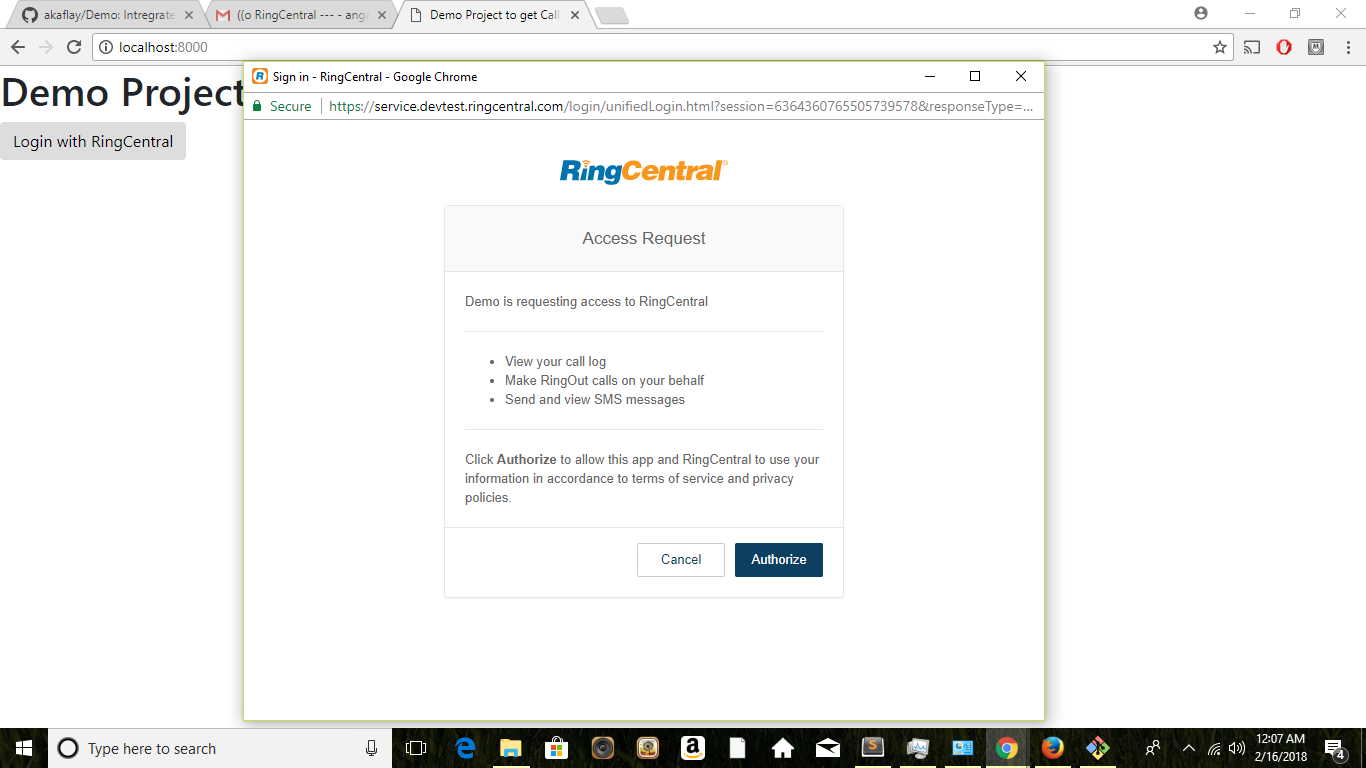
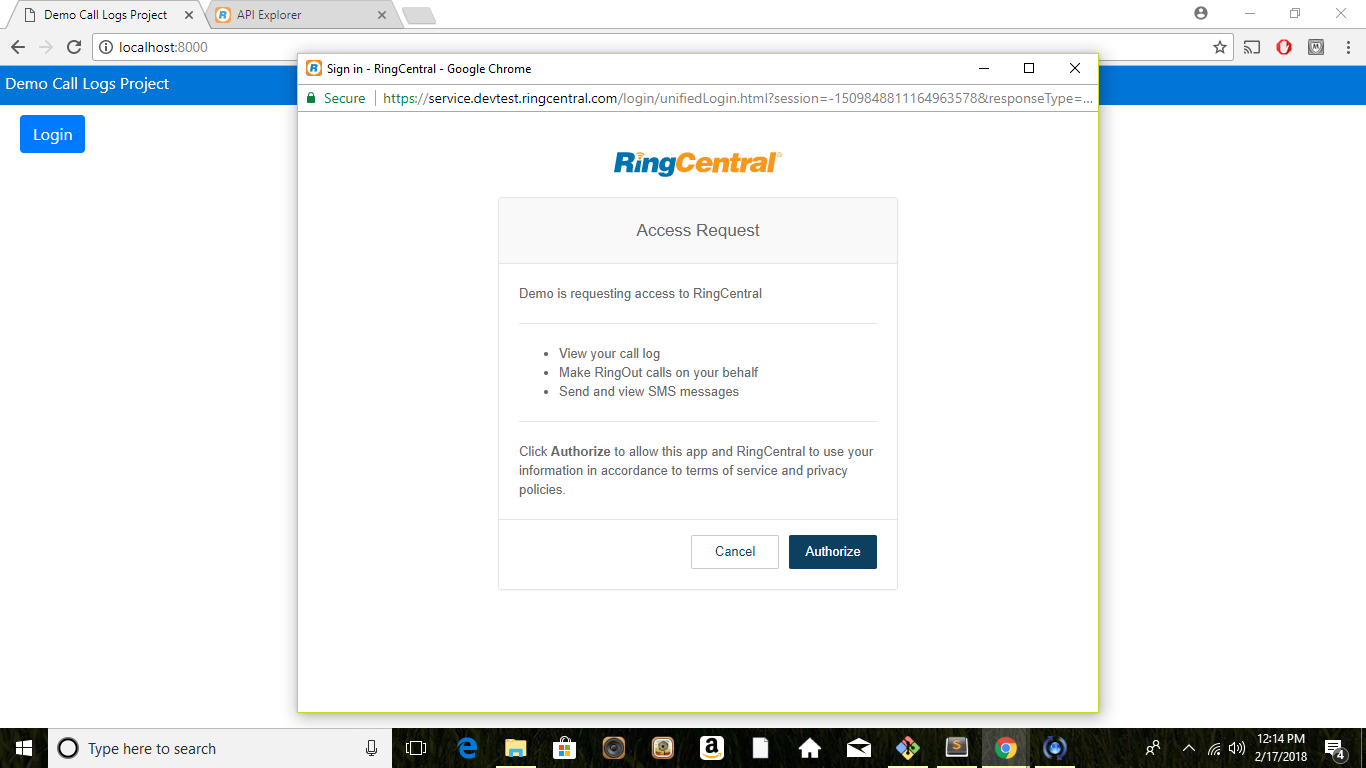
Adding to from field while searching for call logs. Also adding some css and sytiling

diff --git a/app.js b/app.js
@@ -62,15 +62,18 @@ app.get('/callback.html', function (req, res) {
   }
 });
 
-app.get('/callhistory', function (req, res) {
+app.get('/callhistory/dateFrom/:dateFrom/dateTo/:dateTo', function (req, res) {
   var that = this;
   var thatRes = res;
   var token = rcsdk.platform().auth().data();
   var platform = rcsdk.platform();
   var callLogData;
+  var dateFrom= req.params.dateFrom;
+  var dateTo= req.params.dateTo;
   if (getToken() != '') {
+    var url=getQueryUrl(process.env.CALL_LOG_URL,dateFrom,dateTo);
     platform.
-    get(process.env.CALL_LOG_URL).
+    get(url).
     then(function (res) {
       that.callLogData = res.json().records;
       token_json = getToken();
@@ -83,7 +86,8 @@ app.get('/callhistory', function (req, res) {
         token_json: token_json,
         callLog_uri: process.env.CALL_LOG_URL,
         data: that.callLogData,
-        callLogSize: that.callLogData.length
+        callLogSize: that.callLogData.length,
+        dataRequested:true
       });
     }).catch(function (e) {
       conole.log('Error: in getting call logs\n\n' + e.message);
@@ -103,7 +107,11 @@ app.get('/callhistory', function (req, res) {
   }
 });
 
-function homePageLoader(res) {
+var getQueryUrl=(baseUrl,dateFrom,dateTo)=>{
+return `${baseUrl}?dateFrom=${dateFrom}&dateTo=${dateTo}`;
+};
+
+var homePageLoader=(res)=>{
   token_json = getToken();
   res.render('index', {
     authorize_uri: rcsdk.platform().authUrl({
@@ -112,10 +120,11 @@ function homePageLoader(res) {
     }),
     redirect_uri: process.env.RC_APP_REDIRECT_URL,
     token_json: token_json,
-    callLog_uri: process.env.CALL_LOG_URL
+    callLog_uri: process.env.CALL_LOG_URL,
+    dataRequested:false
   });
 }
-function getToken() {
+var getToken=()=>{
   var token = rcsdk.platform().auth().data();
   return token['access_token'] ? JSON.stringify(token, null, ' ') : '';
 }
